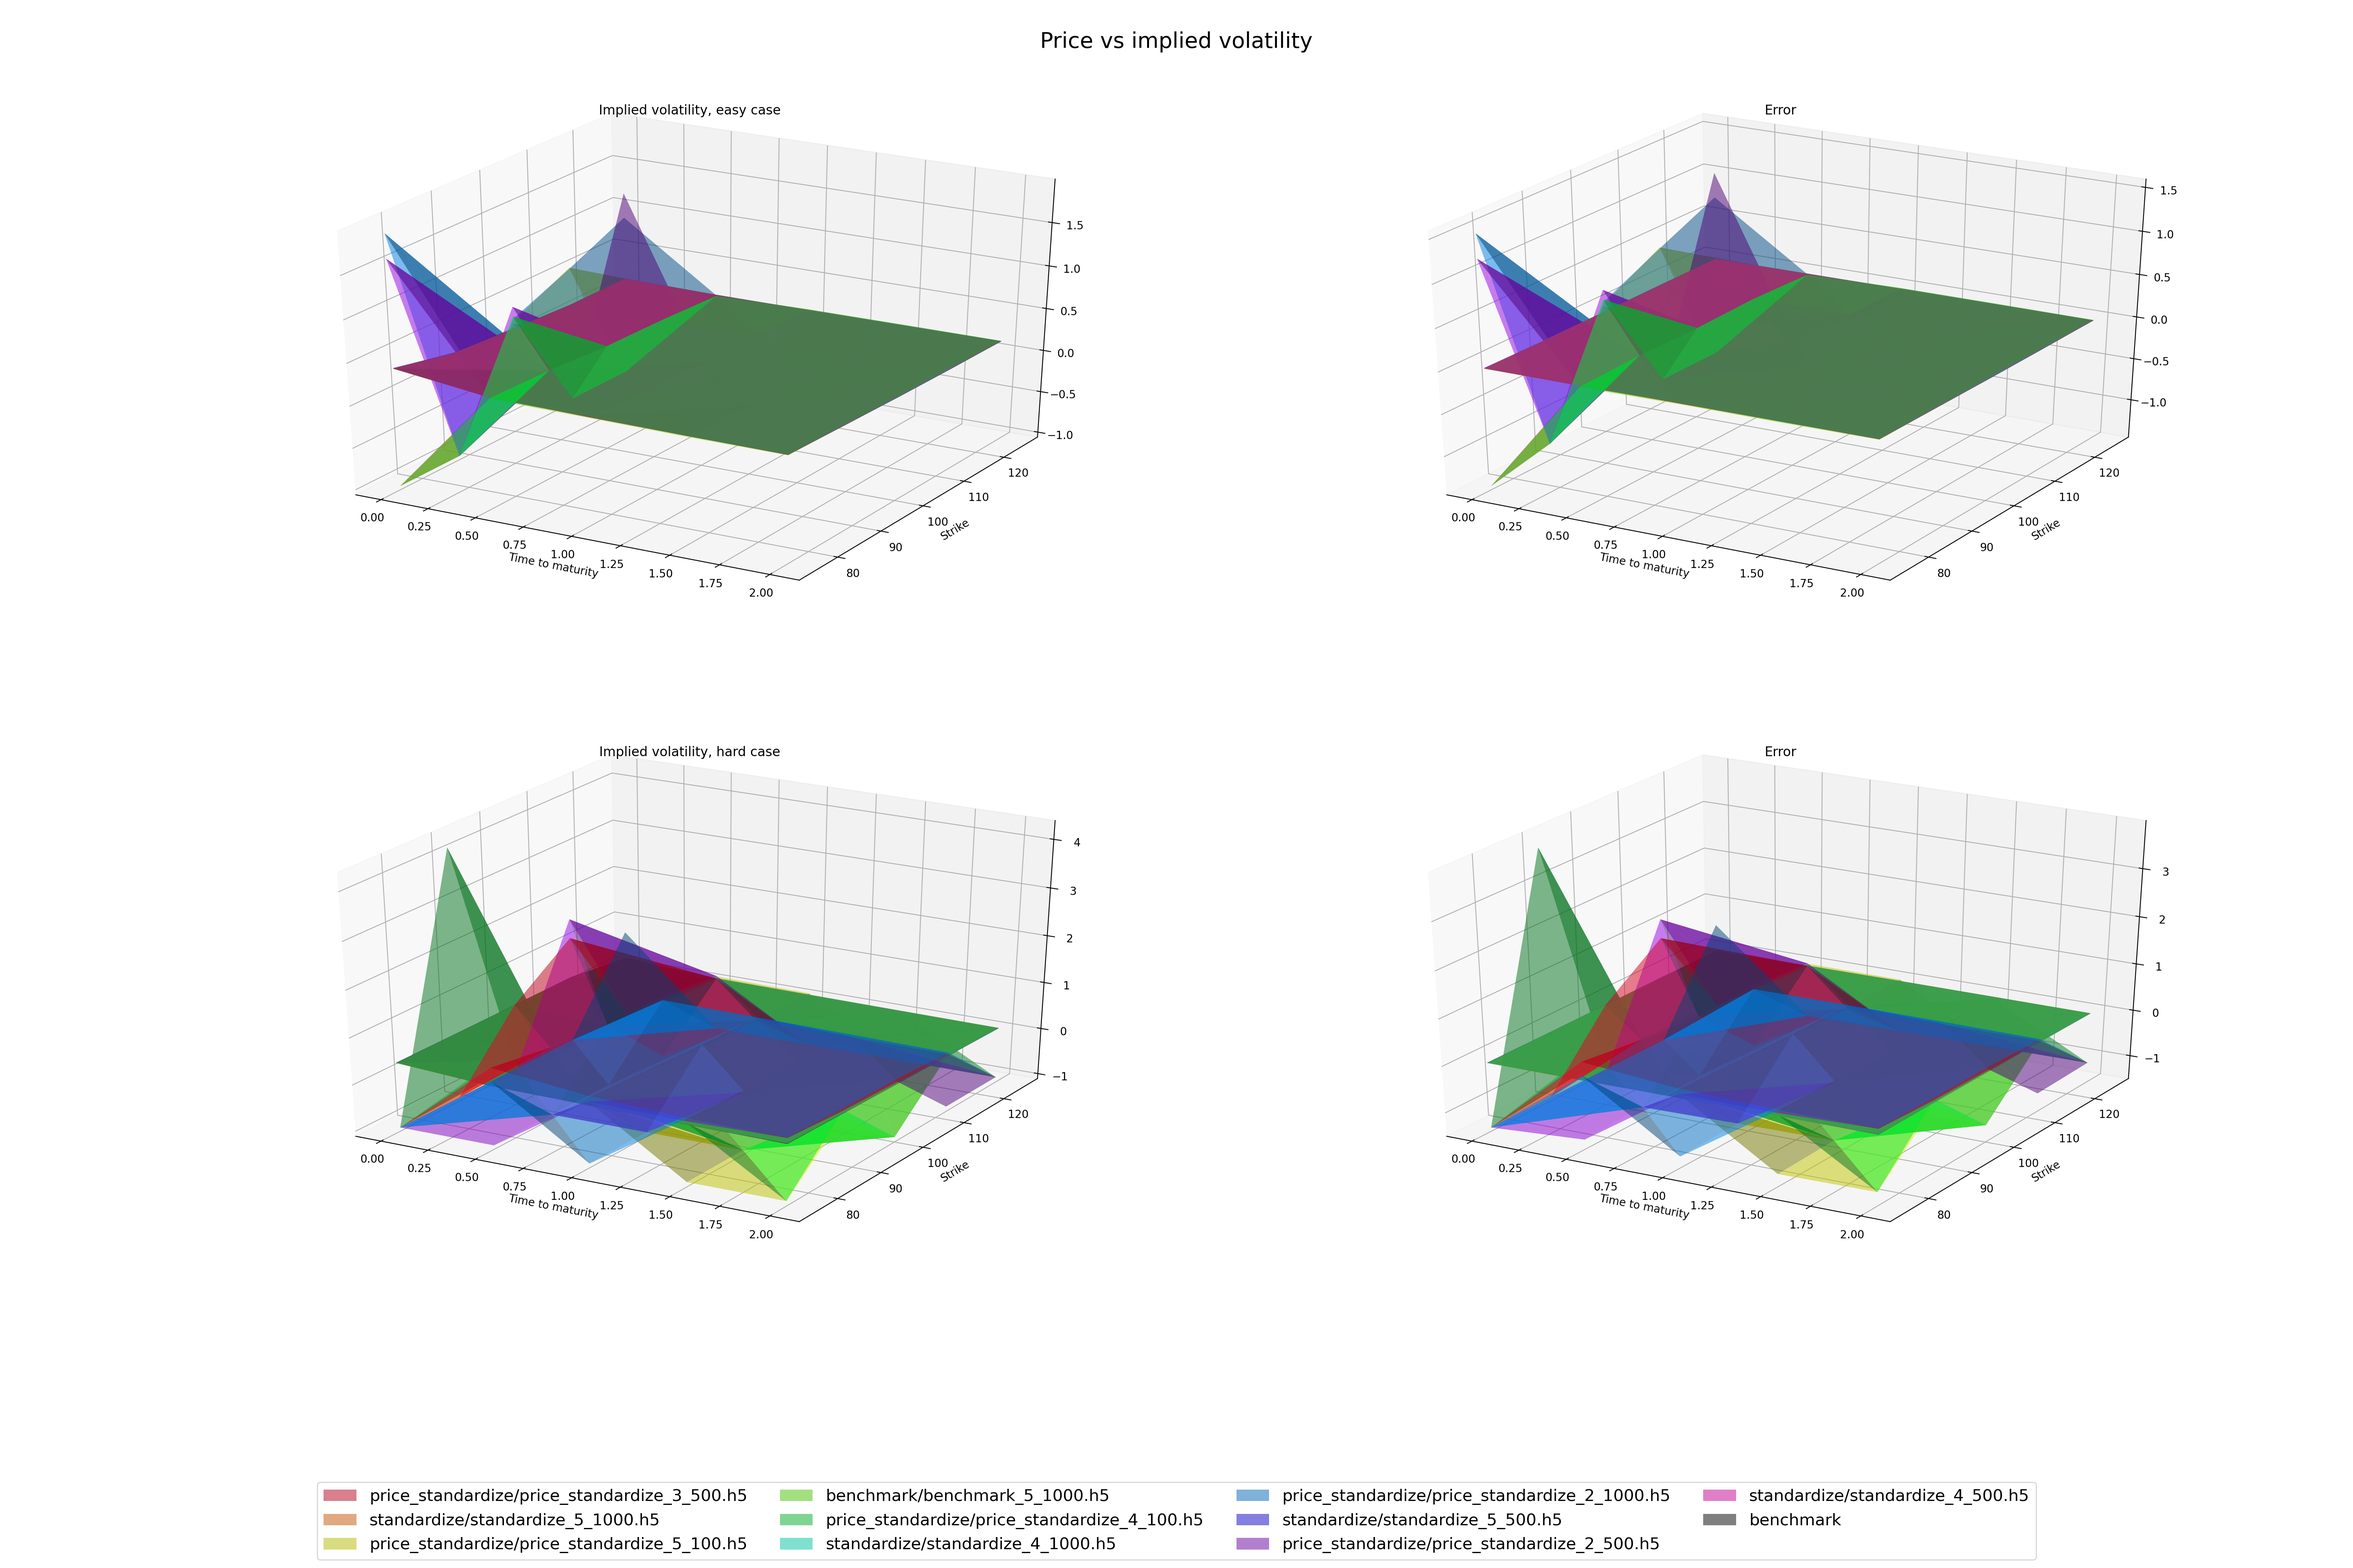
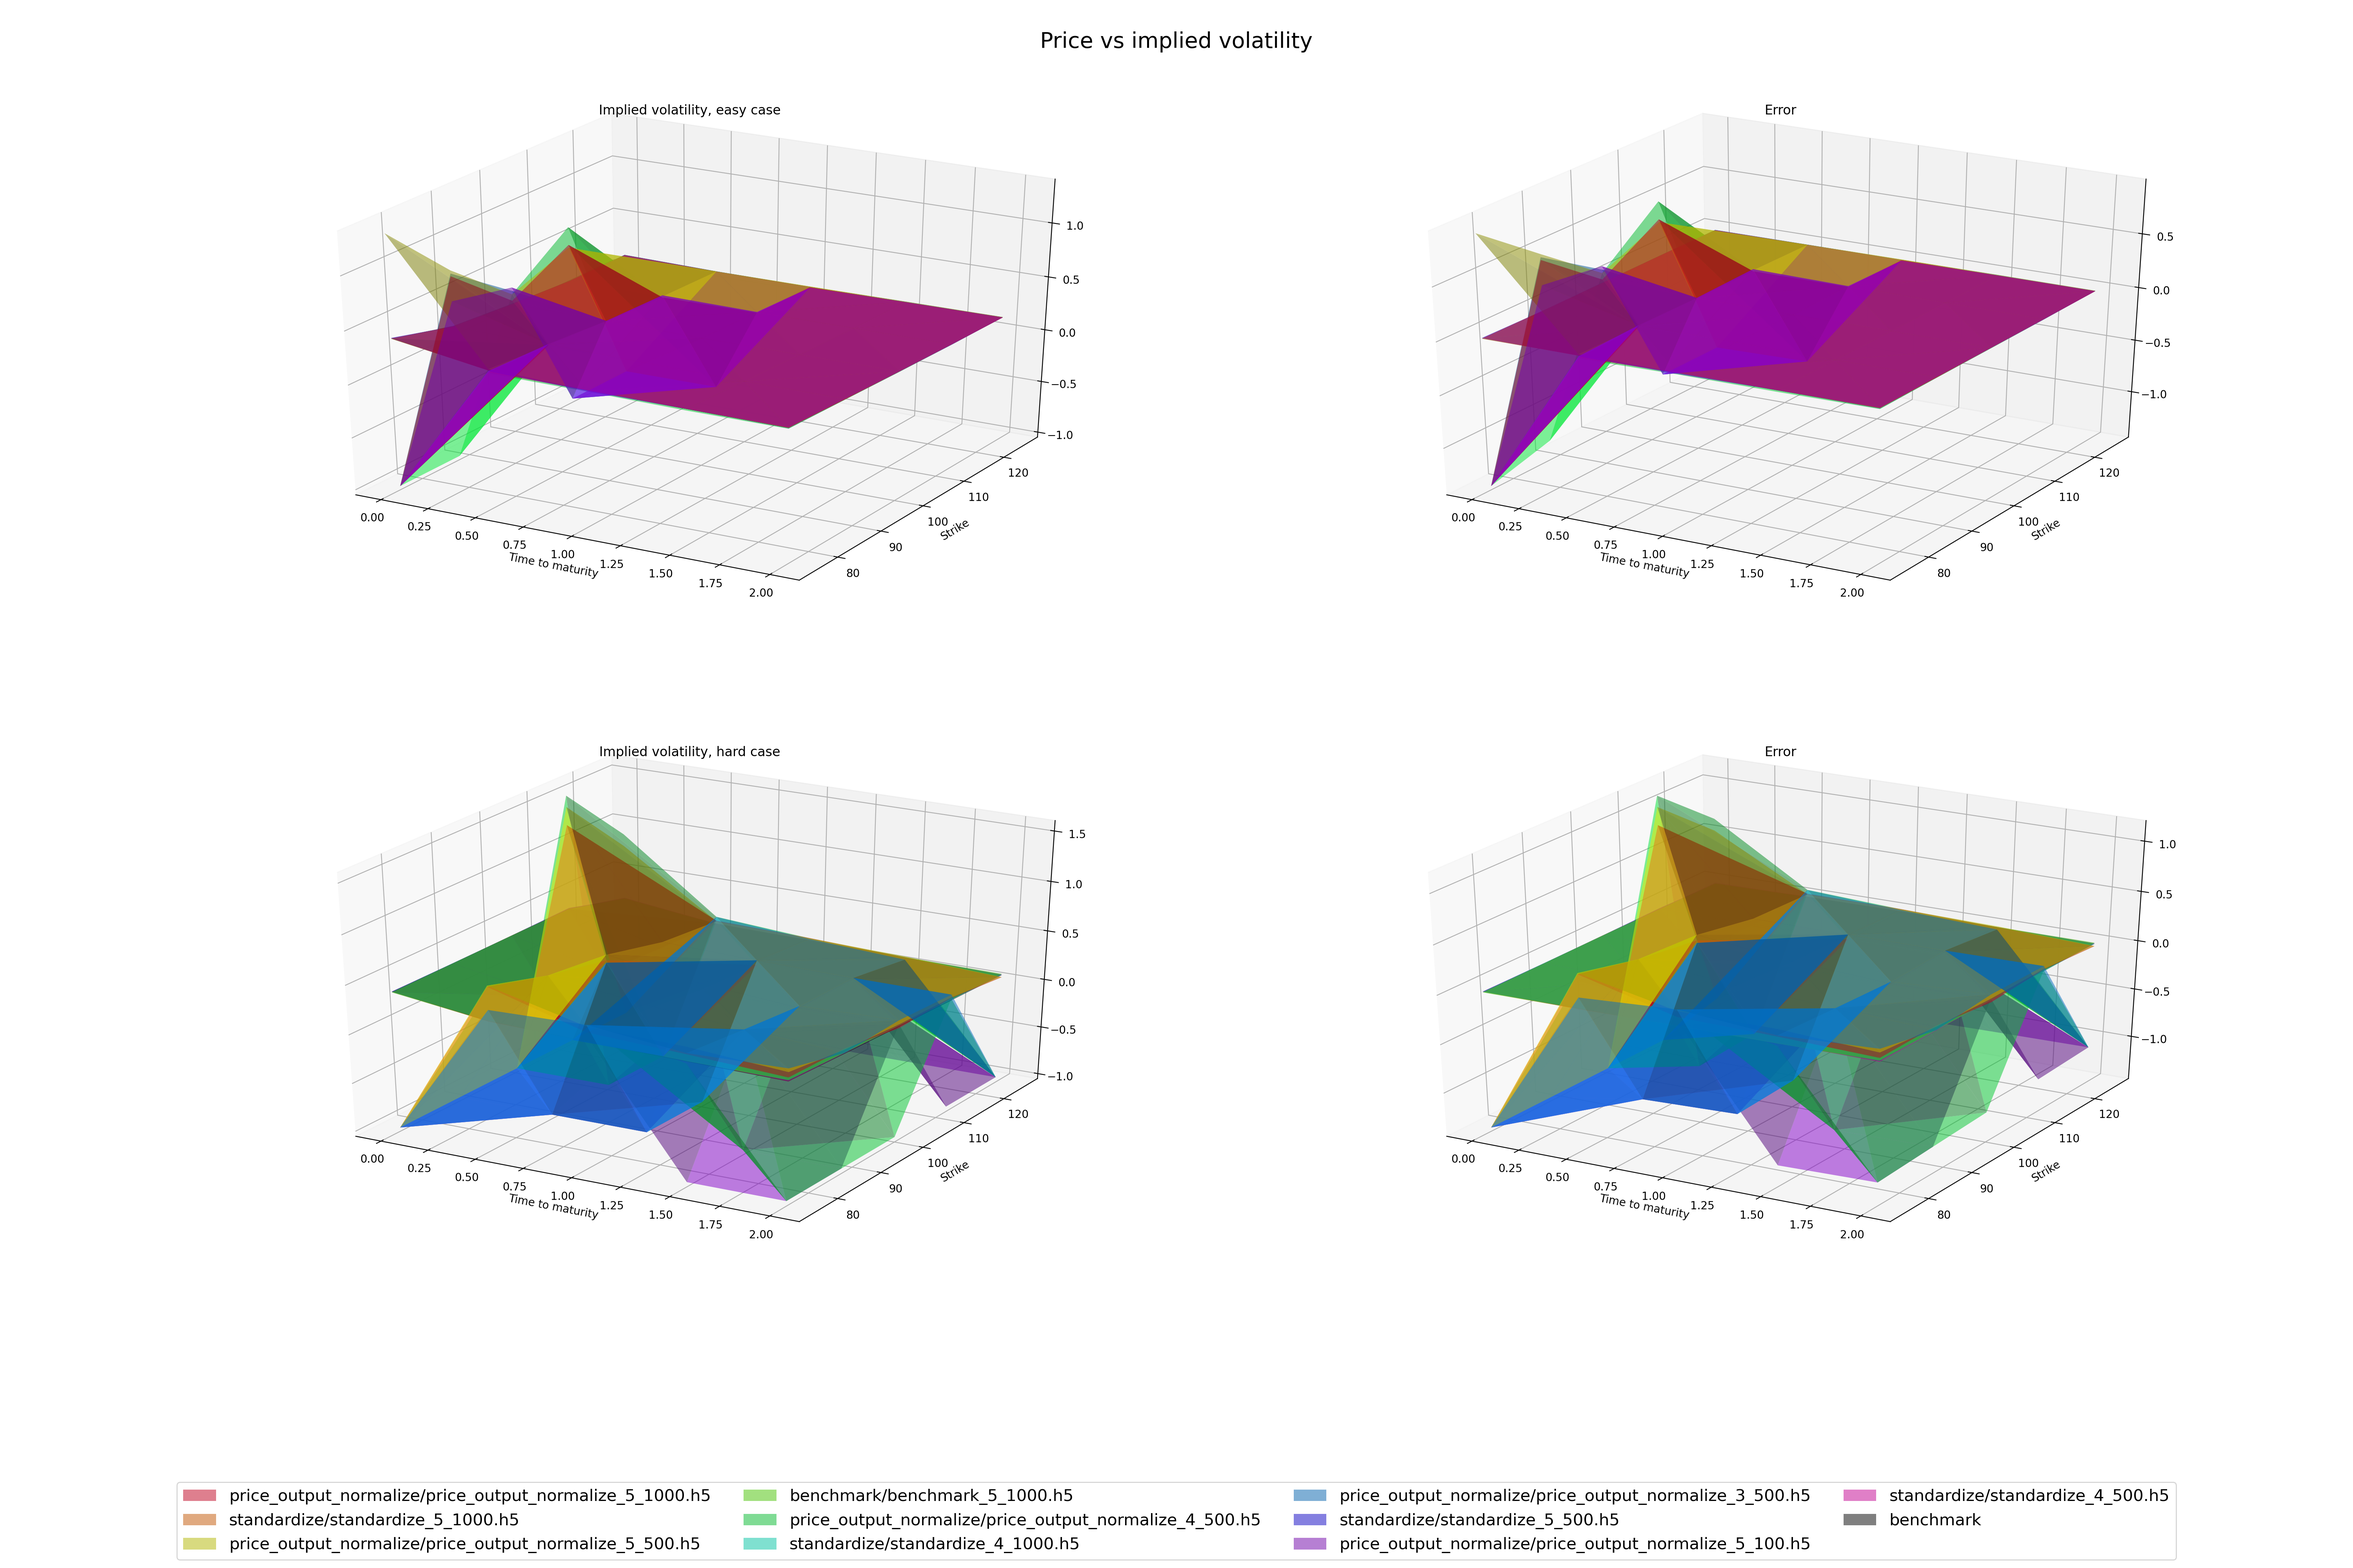
activation and standardize

diff --git a/Thesis/Heston/ModelGenerator.py b/Thesis/Heston/ModelGenerator.py
@@ -115,13 +115,21 @@ if __name__ == '__main__':
         itertools.repeat("output_scaling_mix"), layer_neuron_combs[:, 0], layer_neuron_combs[:, 1], \
         itertools.repeat("mix"), itertools.repeat("standardize"), itertools.repeat(False), itertools.repeat(False)))
 
-    tanh_list = list(zip(itertools.repeat(data_set_1), itertools.repeat("tanh"), \
+    tanh_list = tanh_list = list(zip(itertools.repeat(data_set_1), itertools.repeat("tanh"), \
         itertools.repeat("tanh"), layer_neuron_combs[:, 0], layer_neuron_combs[:, 1], \
         itertools.repeat("tanh"), itertools.repeat("False"), itertools.repeat(False), itertools.repeat(False)))
+
+    tanh_standardize_list = list(zip(itertools.repeat(data_set_1), itertools.repeat("tanh_standardize"), \
+        itertools.repeat("tanh_standardize"), layer_neuron_combs[:, 0], layer_neuron_combs[:, 1], \
+        itertools.repeat("tanh"), itertools.repeat("False"), itertools.repeat(True), itertools.repeat(False)))
 
     mix_list = list(zip(itertools.repeat(data_set_1), itertools.repeat("mix"), \
         itertools.repeat("mix"), layer_neuron_combs[:, 0], layer_neuron_combs[:, 1], \
         itertools.repeat("mix"), itertools.repeat("False"), itertools.repeat(False), itertools.repeat(False)))
+
+    mix_standardize_list = list(zip(itertools.repeat(data_set_1), itertools.repeat("mix_standardize"), \
+        itertools.repeat("mix_standardize"), layer_neuron_combs[:, 0], layer_neuron_combs[:, 1], \
+        itertools.repeat("mix"), itertools.repeat("False"), itertools.repeat(True), itertools.repeat(False)))
 
     price_list = list(zip(itertools.repeat(data_set_price), itertools.repeat("price"), \
         itertools.repeat("price"), layer_neuron_combs[:, 0], layer_neuron_combs[:, 1], \
@@ -179,7 +187,7 @@ if __name__ == '__main__':
     compute11_list = mix_list + price_list + standardize_list + noise_list
 
     next_list_2 = price_tanh_list + price_mix_list
-    next_list_3 = price_output_standardize_list + price_output_normalize_list
+    next_list_3 = tanh_standardize_list + mix_standardize_list
 
     if cpu_count() == 4:
         cpu_cores = 4

diff --git a/Thesis/Heston/ModelTesting.py b/Thesis/Heston/ModelTesting.py
@@ -273,7 +273,7 @@ def model_testing2(model_list : list, plot_title : str) -> list:
                 imp_vol_predictions_hard[i] = model_class_hard.impVol(predictions_hard[i], some_option_list[i])
             predictions_easy = imp_vol_predictions_easy
             predictions_hard = imp_vol_predictions_hard
-        
+            
         c = next(color)
 
         z_easy = predictions_easy
@@ -401,7 +401,7 @@ if __name__ == "__main__":
         "output_scaling_normalize",
         "mix",
         "price",
-        "price_incldue",
+        "price_include",
         "price_standardize",
         "price_output_standardize",
         "price_output_normalize",
